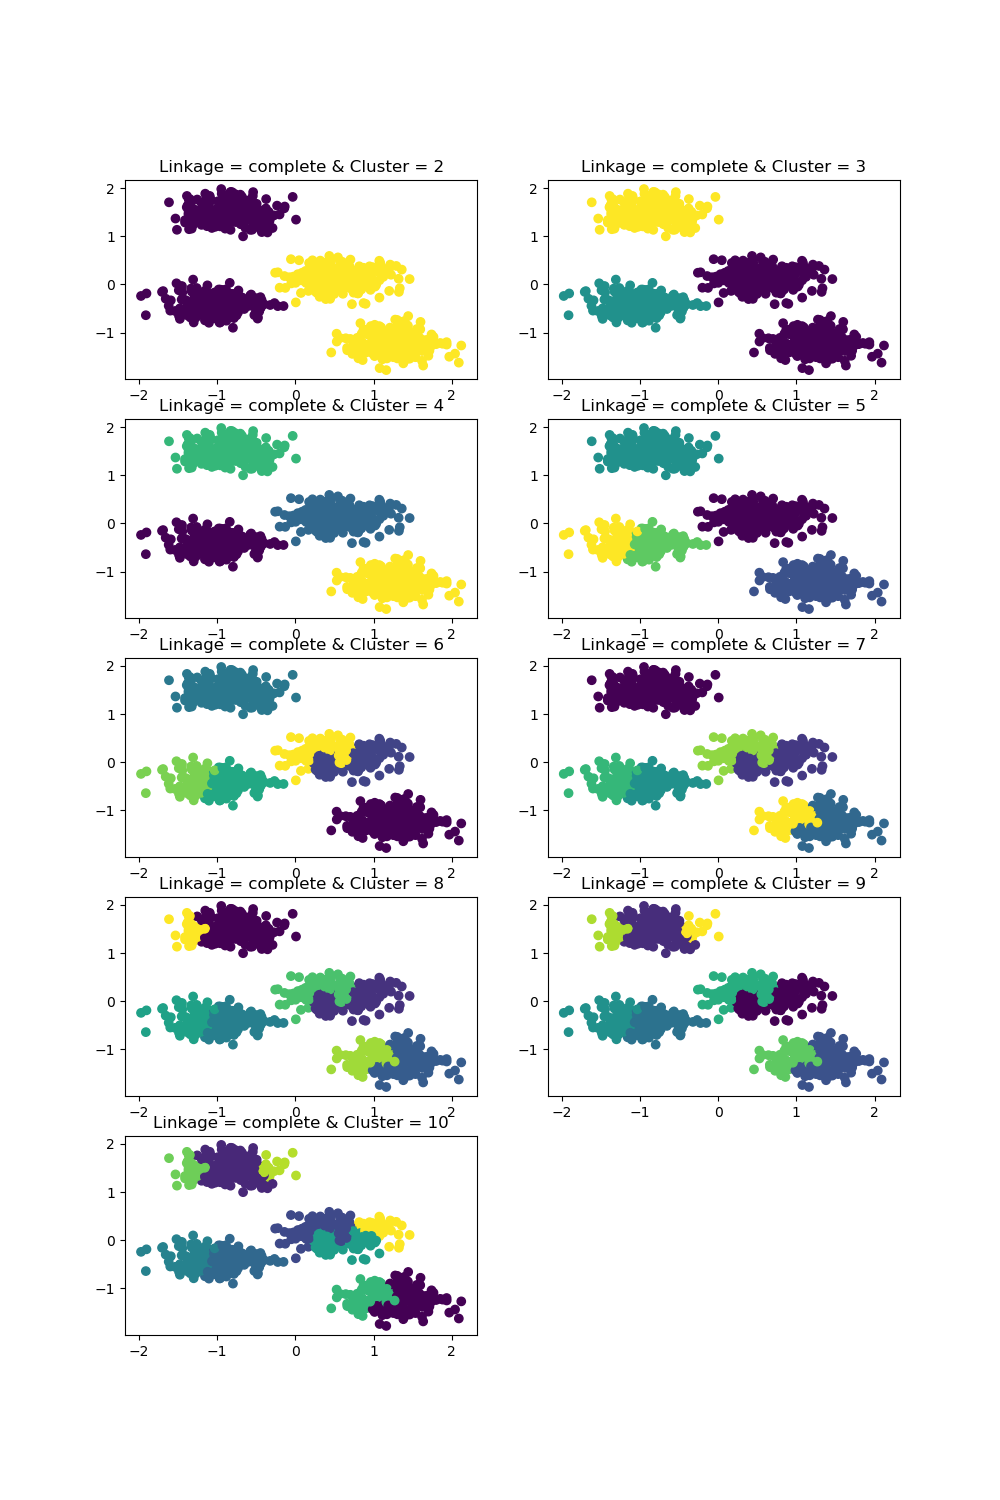
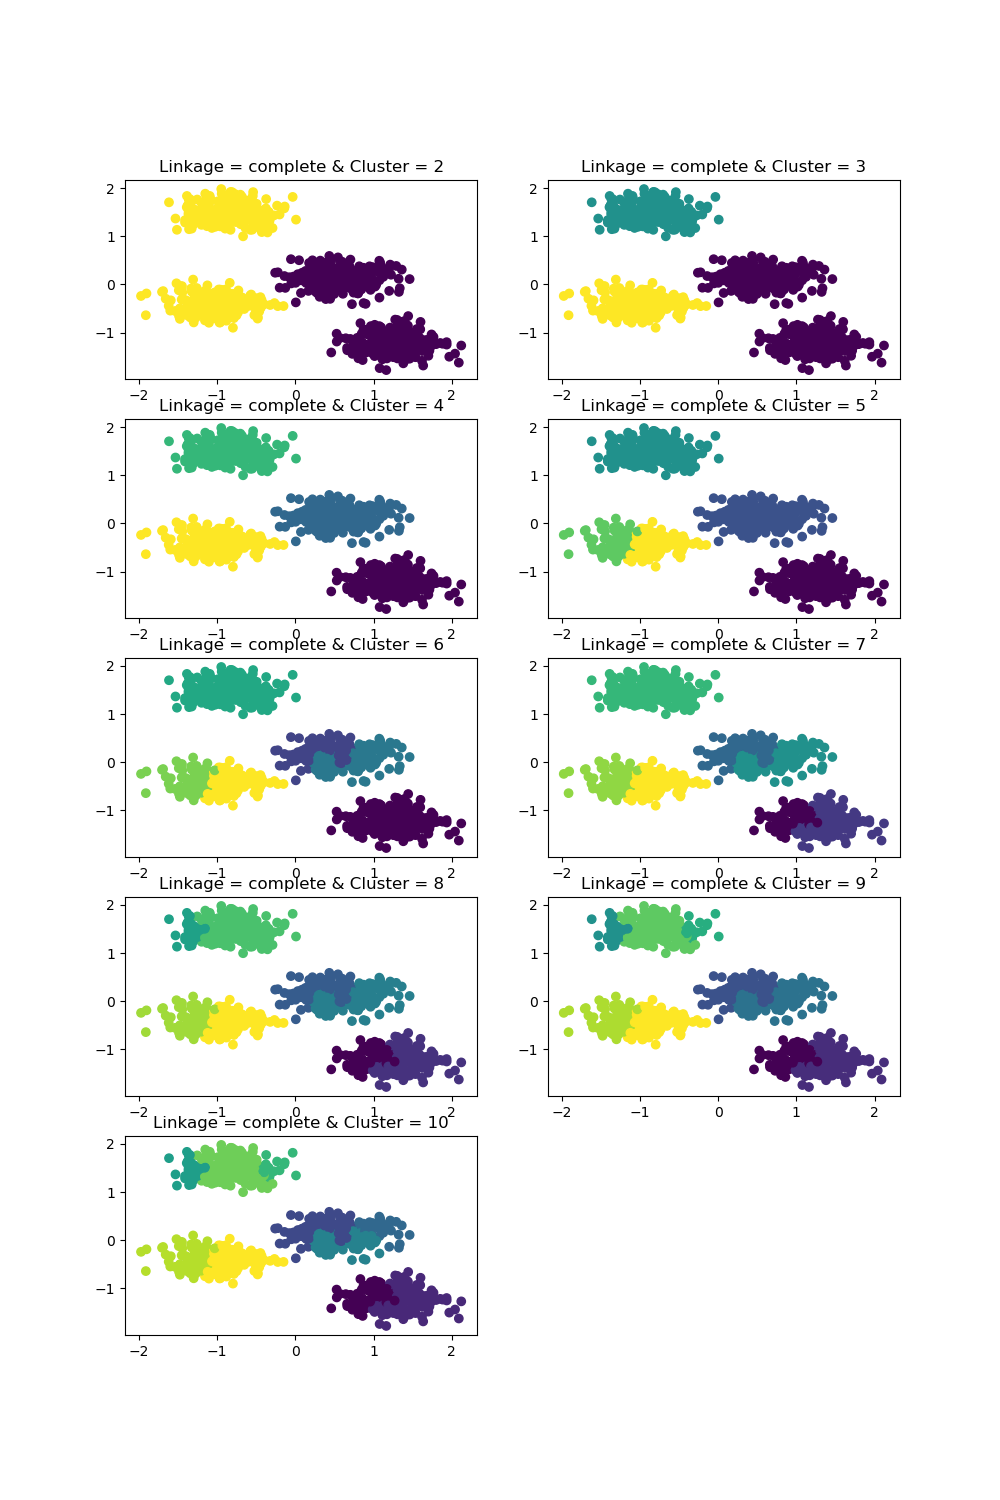
update to scipy

diff --git a/src/scipy_linkage_blobs.py b/src/scipy_linkage_blobs.py
@@ -1,0 +1,84 @@
+import matplotlib.pyplot as plt
+from sklearn.datasets import make_blobs
+from sklearn.cluster import AgglomerativeClustering
+from sklearn.preprocessing import StandardScaler
+from sklearn.metrics import silhouette_score, calinski_harabasz_score
+from scipy.cluster.hierarchy import dendrogram, linkage, fcluster
+
+
+def plot_agglo(X_scaled, link_choice=str):
+    score_s = []
+    score_chs = []
+    for i in range(2, 11):
+        Z = linkage(X_scaled, link_choice)
+        y_pred = fcluster(Z=Z, t=i, criterion="maxclust")
+        score_s.append(silhouette_score(X_scaled, y_pred))
+        score_chs.append(calinski_harabasz_score(X_scaled, y_pred))
+
+        plt.subplot(5, 2, i - 1)
+        plt.scatter(X_scaled[:, 0], X_scaled[:, 1], c=y_pred)
+        plt.title(f"Linkage = {link_choice} & Cluster = {i}")
+    plt.gcf().set_size_inches(10, 15)
+    plt.tight_layout
+    return score_s, score_chs
+
+
+def plot_score(k, score, color):
+    plt.plot(k, score, color)
+    plt.xlabel("k")
+    plt.ylabel("score")
+    plt.grid(True)
+    plt.tight_layout
+
+
+if __name__ == "__main__":
+    # Part 1 ==================================================================
+    # generate sample data.
+    X, y = make_blobs(n_samples=1000, centers=4, random_state=0, cluster_std=0.5)
+
+    # scale the data.
+    scaler = StandardScaler()
+    X_scaled = scaler.fit_transform(X)
+
+    # plot scaled data.
+    plt.scatter(X_scaled[:, 0], X_scaled[:, 1], c=y)
+    plt.title("Scaled blobs data with 4 centers")
+    plt.tight_layout
+    plt.savefig("fig/agglo_data.png")
+    plt.show()
+
+    # Part 2 ==================================================================
+    link_type = ["single", "complete", "centroid", "ward", "average"]
+    k_values = list(range(2, 11))
+    list_s = []
+    list_chs = []
+    for link in link_type:
+        score_s, score_chs = plot_agglo(X_scaled, link_choice=link)
+        plt.savefig(f"fig/agglo_{link}.png")
+        plt.show()
+        list_s.append(score_s)
+        list_chs.append(score_chs)
+
+    # Part 3 ==================================================================
+    i = 0
+    for link in link_type:
+        i += 1
+        plt.subplot(5, 2, 2 * i - 1)
+        plot_score(k_values, list_s[i - 1], "gs-")
+        plt.title(f"Silhouette score for {link} linkage")
+        # plt.ylim(0, 0.8)
+        plt.subplot(5, 2, 2 * i)
+        plot_score(k_values, list_chs[i - 1], "bs-")
+        plt.title(f"CHI score for {link} linkage")
+        # plt.ylim(0, 5000)
+    plt.gcf().set_size_inches(10, 15)
+    plt.savefig("fig/agglo_score.png")
+    plt.show()
+
+    # Part 4 ==================================================================
+    for link in link_type:
+        Z = linkage(X_scaled, link)
+        dendrogram(Z)
+        plt.title(f"{link} linkage")
+        plt.savefig(f"fig/dendogram_{link}.png")
+        plt.show()

diff --git a/src/scipy_linkage_moons.py b/src/scipy_linkage_moons.py
@@ -1,34 +1,7 @@
 import matplotlib.pyplot as plt
-from sklearn.datasets import make_blobs, make_moons
-from sklearn.cluster import AgglomerativeClustering
+from sklearn.datasets import make_moons
 from sklearn.preprocessing import StandardScaler
-from sklearn.metrics import silhouette_score, calinski_harabasz_score
-from scipy.cluster.hierarchy import dendrogram, linkage, fcluster
-
-
-def plot_agglo(X_scaled, link_choice=str):
-    score_s = []
-    score_chs = []
-    for i in range(2, 11):
-        Z = linkage(X_scaled, link_choice)
-        y_pred = fcluster(Z=Z, t=i, criterion="maxclust")
-        # score_s.append(silhouette_score(X_scaled, agglo_model.labels_))
-        # score_chs.append(calinski_harabasz_score(X_scaled, agglo_model.labels_))
-
-        plt.subplot(5, 2, i - 1)
-        plt.scatter(X_scaled[:, 0], X_scaled[:, 1], c=y_pred)
-        plt.title(f"Linkage = {link_choice} & Cluster = {i}")
-    plt.gcf().set_size_inches(10, 15)
-    plt.tight_layout
-    return score_s, score_chs
-
-
-def plot_score(k, score, color):
-    plt.plot(k, score, color)
-    plt.xlabel("k")
-    plt.ylabel("score")
-    plt.grid(True)
-    plt.tight_layout
+from scipy_linkage_blobs import plot_agglo, plot_score
 
 
 if __name__ == "__main__":
@@ -63,15 +36,15 @@ if __name__ == "__main__":
     i = 0
     for link in link_type:
         i += 1
-        plt.subplot(4, 2, 2 * i - 1)
+        plt.subplot(5, 2, 2 * i - 1)
         plot_score(k_values, list_s[i - 1], "gs-")
         plt.title(f"Silhouette score for {link} linkage")
-        plt.ylim(0, 0.8)
-        plt.subplot(4, 2, 2 * i)
+        # plt.ylim(0, 0.8)
+        plt.subplot(5, 2, 2 * i)
         plot_score(k_values, list_chs[i - 1], "bs-")
         plt.title(f"CHI score for {link} linkage")
-        plt.ylim(0, 5000)
-    plt.gcf().set_size_inches(10, 12)
+        # plt.ylim(0, 5000)
+    plt.gcf().set_size_inches(10, 15)
     plt.savefig("fig/agglo_score.png")
     plt.show()
 
